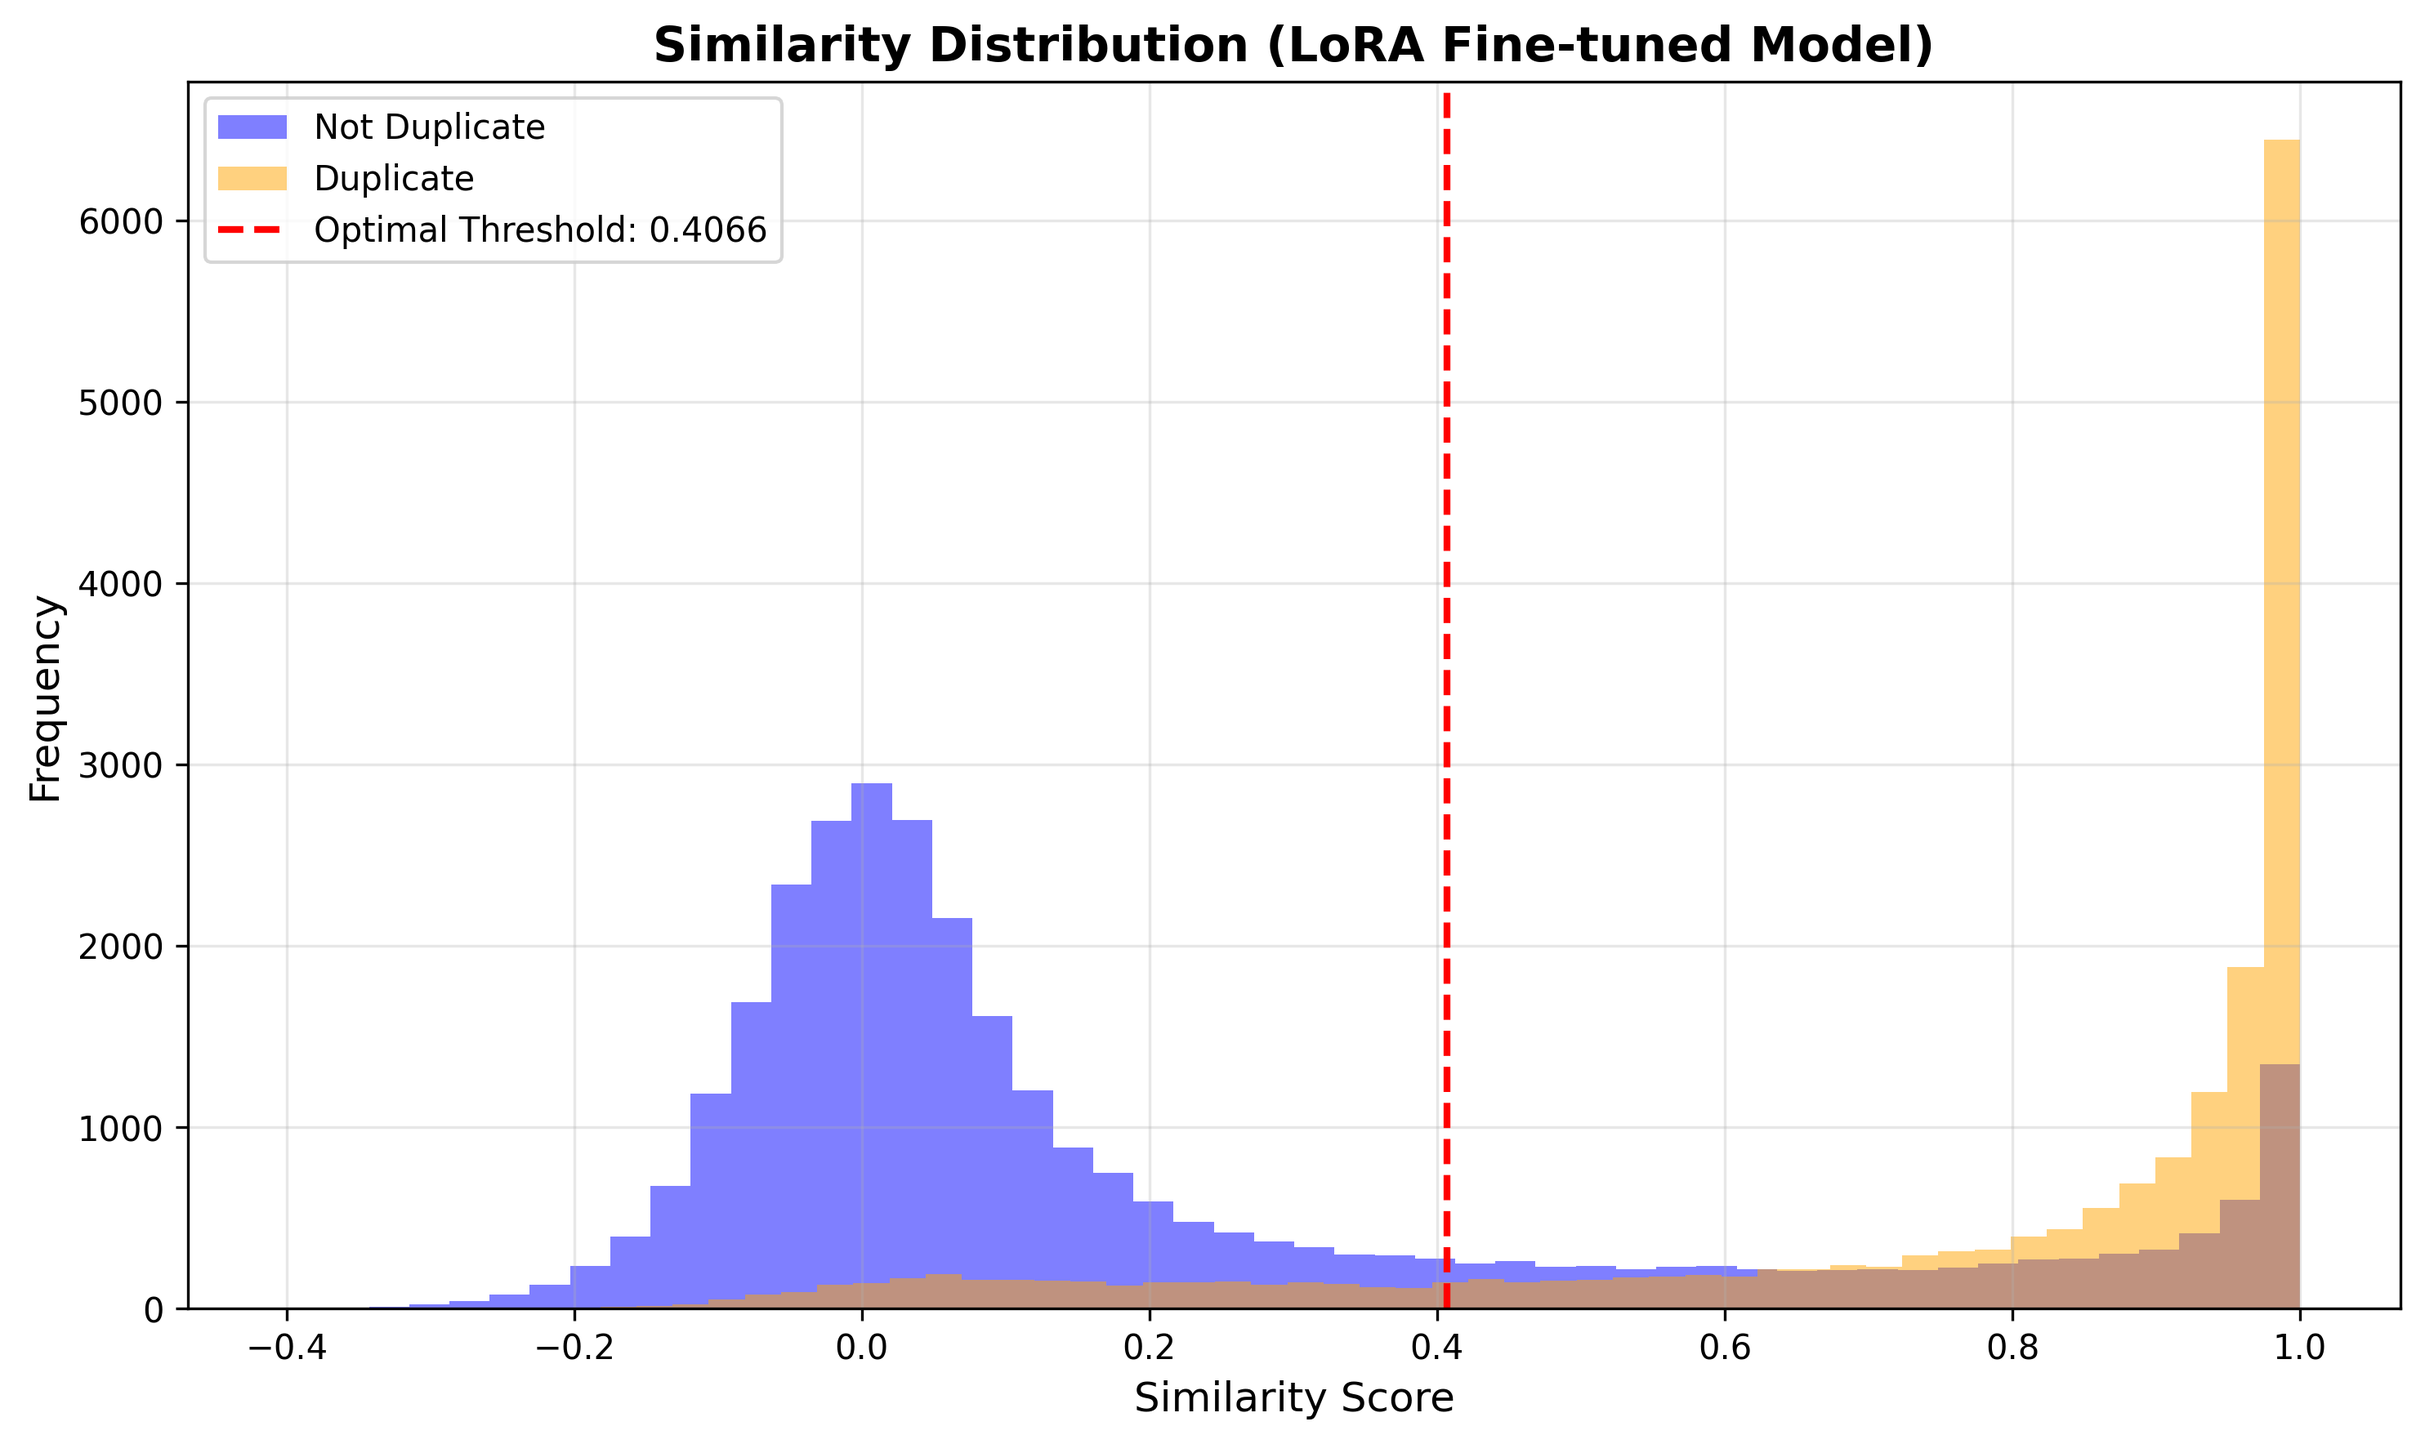
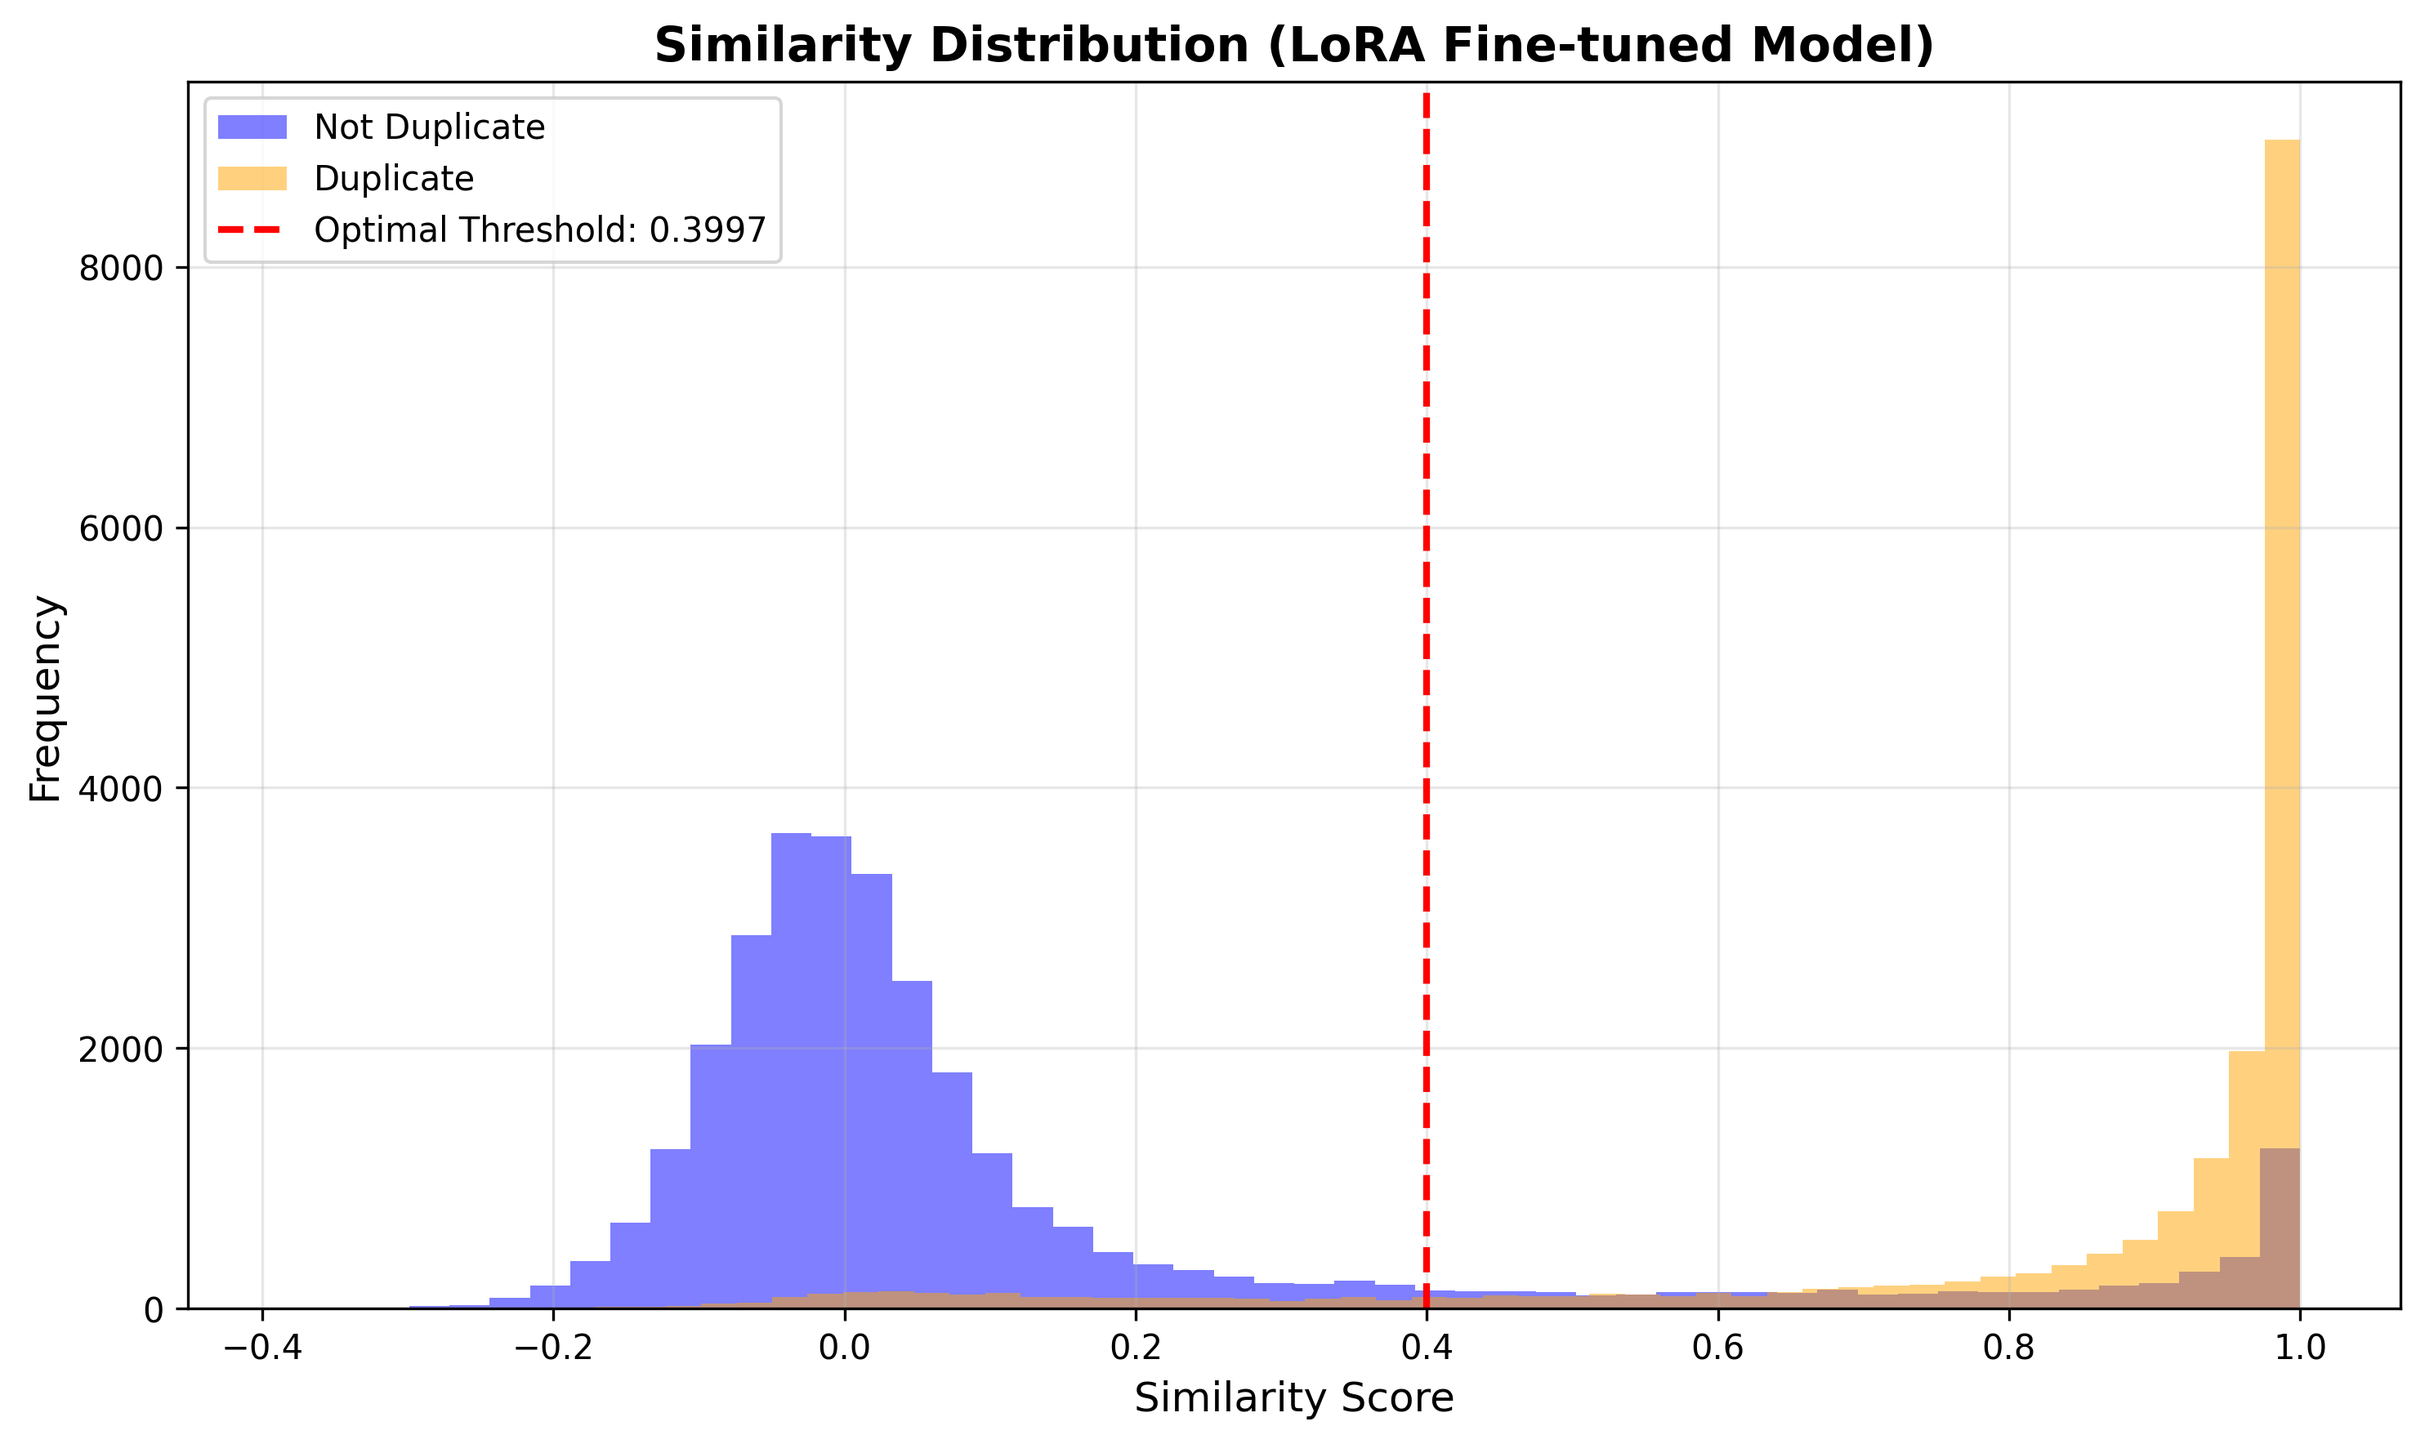
refactor: Switch early stopping from F1 to validation loss
- Change early stopping metric from F1 score to validation loss for more stable model selection
- Update model references from final_model to best_model throughout codebase
- Add embedding similarity comparison demo showing ChromaDB vs direct computation
- Update training config to use medium dataset with 10 epochs
- Update evaluation to use test dataset instead of validation
- Add pydantic-settings dependency
- Regenerate evaluation visualizations with latest training results

diff --git a/vector_database/example_lora_usage.py b/vector_database/example_lora_usage.py
@@ -316,6 +316,118 @@ def example_batch_queries():
                 print(f"  Would need to query LLM for this question")
 
 
+def example_embedding_similarity_comparison():
+    """Example: Compare ChromaDB distance vs direct embedding similarity computation."""
+    print("\n" + "="*70)
+    print("EXAMPLE 3: Embedding Similarity Comparison - Direct Similarity Computation")
+    print("="*70 + "\n")
+
+    # Get path to LoRA model
+    current_dir = os.path.dirname(os.path.abspath(__file__))
+    project_root = os.path.dirname(current_dir)
+    lora_model_path = os.path.join(project_root, 'lora_training_pipeline', 'models', 'best_model')
+
+    # Initialize components
+    embedder = LoRAEmbeddingEngine(model_path=lora_model_path)
+    vector_store = ChromaVectorStore(
+        collection_name="lora_similarity_demo",
+        persist_directory="./data/chroma_db_lora",
+        embedding_dimension=embedder.get_embedding_dimension()
+    )
+
+    # Sample FAQ queries and responses
+    faq_queries = [
+        "How do I change my email address?",
+        "How can I reset my account password?",
+        "How do I delete my account?",
+        "What are the payment methods accepted?",
+        "How do I contact customer support?",
+    ]
+
+    faq_responses = [
+        "To change your email, go to Settings > Profile > Email and enter your new email.",
+        "To reset your password, go to Settings > Security > Reset Password.",
+        "To delete your account, go to Settings > Account > Delete Account.",
+        "We accept credit cards, debit cards, PayPal, and bank transfers.",
+        "You can contact support at support@example.com or call 1-800-SUPPORT.",
+    ]
+
+    # Build cache
+    print(f"Building semantic cache with {len(faq_queries)} FAQ entries...")
+    embeddings = embedder.encode_batch(faq_queries)
+    vector_store.add_embeddings_batch(
+        embeddings=embeddings,
+        texts=faq_queries,
+        llm_responses=faq_responses
+    )
+    print(f"Cache built with {len(faq_queries)} entries\n")
+
+    # Test queries
+    test_queries = [
+        "email change process",
+        "password reset steps",
+        "how to cancel my subscription",  # Not in cache
+    ]
+
+    optimal_similarity = embedder.get_optimal_threshold()
+    optimal_distance = embedder.get_optimal_distance_threshold()
+
+    print(f"Optimal similarity threshold (from training): {optimal_similarity:.4f}")
+    print(f"Optimal distance threshold (for ChromaDB):    {optimal_distance:.4f}")
+    print("\nComparing ChromaDB distance vs direct embedding similarity:")
+    print("-" * 70)
+
+    for query in test_queries:
+        print(f"\nUser query: '{query}'")
+
+        # Get query embedding
+        query_embedding = embedder.encode(query)
+
+        # Get closest match from ChromaDB
+        results = vector_store.query(query_embedding=query_embedding, n_results=1)
+
+        if results['ids']:
+            matched_text = results['documents'][0]
+            chromadb_distance = results['distances'][0]
+
+            # Compute similarity using embedding model directly
+            # Get the embedding of the matched document from cache
+            matched_embedding = embedder.encode(matched_text)
+
+            # Compute cosine similarity (dot product of normalized embeddings)
+            computed_similarity = np.dot(query_embedding, matched_embedding)
+
+            # Convert to distance for comparison
+            computed_distance = 1.0 - computed_similarity
+
+            # Classify using computed similarity
+            is_hit_computed = computed_similarity >= optimal_similarity
+            is_hit_chromadb = chromadb_distance < optimal_distance
+
+            print(f"\n  Matched document: '{matched_text}'")
+            print(f"\n  ChromaDB Results:")
+            print(f"    Distance: {chromadb_distance:.4f}")
+            print(f"    Classification: {'✓ CACHE HIT' if is_hit_chromadb else '✗ CACHE MISS'}")
+
+            print(f"\n  Direct Embedding Similarity:")
+            print(f"    Cosine similarity: {computed_similarity:.4f}")
+            print(f"    Equivalent distance: {computed_distance:.4f}")
+            print(f"    Classification: {'✓ CACHE HIT' if is_hit_computed else '✗ CACHE MISS'}")
+            print(f"    Above threshold? {computed_similarity:.4f} >= {optimal_similarity:.4f}: {is_hit_computed}")
+
+            # Show response if it's a cache hit
+            if is_hit_computed:
+                print(f"\n  Cached response: {results['metadatas'][0].get('llm_response', 'N/A')}")
+            else:
+                print(f"\n  → Would need to query LLM for this question")
+
+            # Verify consistency
+            if is_hit_computed != is_hit_chromadb:
+                print(f"\n  ⚠ WARNING: Classification mismatch between methods!")
+            else:
+                print(f"\n  ✓ Both methods agree on classification")
+
+
 def main():
     """Run all examples."""
     print("\n" + "="*70)
@@ -337,6 +449,7 @@ def main():
     try:
         example_single_query()
         example_batch_queries()
+        example_embedding_similarity_comparison()
 
         print("\n" + "="*70)
         print("All examples completed successfully!")

diff --git a/lora_training_pipeline/train_minilm_lora.py b/lora_training_pipeline/train_minilm_lora.py
@@ -209,7 +209,7 @@ class MiniLMLoRATrainer:
         }
 
         # Early stopping state
-        self.best_val_f1 = 0.0
+        self.best_val_loss = float('inf')
         self.epochs_without_improvement = 0
         self.best_model_state = None
 
@@ -521,13 +521,13 @@ class MiniLMLoRATrainer:
                 # Compute validation loss
                 val_loss = self.compute_validation_loss(val_dataloader)
 
-                # Quick validation metrics
+                # Quick validation metrics (for monitoring only, not used for early stopping)
                 val_metrics = self.quick_evaluate(val_dataloader, threshold=0.5)
                 val_f1 = val_metrics['f1']
 
                 print(f"\nValidation Results:")
-                print(f"  Loss:          {val_loss:.4f}")
-                print(f"  F1 Score:      {val_f1:.4f}")
+                print(f"  Loss:          {val_loss:.4f} (used for early stopping)")
+                print(f"  F1 Score:      {val_f1:.4f} (monitoring only, fixed threshold=0.5)")
                 print(f"  Accuracy:      {val_metrics['accuracy']:.4f}")
                 print(f"  Precision:     {val_metrics['precision']:.4f}")
                 print(f"  Recall:        {val_metrics['recall']:.4f}")
@@ -536,11 +536,11 @@ class MiniLMLoRATrainer:
                 self.history['val_loss'].append(val_loss)
                 self.history['val_metrics'].append(val_metrics)
 
-                # Check for improvement
-                improvement = val_f1 - self.best_val_f1
+                # Check for improvement (lower loss is better)
+                improvement = self.best_val_loss - val_loss
                 if improvement > self.min_delta:
-                    print(f"\n  ✓ Validation F1 improved by {improvement:.4f} (new best: {val_f1:.4f})")
-                    self.best_val_f1 = val_f1
+                    print(f"\n  ✓ Validation loss improved by {improvement:.4f} (new best: {val_loss:.4f})")
+                    self.best_val_loss = val_loss
                     self.epochs_without_improvement = 0
 
                     # Save best model state
@@ -556,13 +556,13 @@ class MiniLMLoRATrainer:
                 else:
                     self.epochs_without_improvement += 1
                     print(f"\n  × No improvement for {self.epochs_without_improvement} epoch(s)")
-                    print(f"    Best F1: {self.best_val_f1:.4f} | Current F1: {val_f1:.4f}")
+                    print(f"    Best Loss: {self.best_val_loss:.4f} | Current Loss: {val_loss:.4f}")
 
                 # Early stopping check
                 if self.epochs_without_improvement >= self.patience:
                     print(f"\n{'='*60}")
                     print(f"Early stopping triggered after {epoch + 1} epochs")
-                    print(f"Best validation F1: {self.best_val_f1:.4f} at epoch {self.best_model_state['epoch']}")
+                    print(f"Best validation loss: {self.best_val_loss:.4f} at epoch {self.best_model_state['epoch']}")
                     print(f"{'='*60}")
 
                     # Restore best model
@@ -623,9 +623,10 @@ class MiniLMLoRATrainer:
         print("Model Training and Evaluation Complete!")
         print("="*60)
         if self.best_model_state:
-            print(f"Best Model (early stopping):")
+            print(f"Best Model (early stopping based on validation loss):")
             print(f"  Epoch: {self.best_model_state['epoch']}")
-            print(f"  Validation F1: {self.best_model_state['val_f1']:.4f}")
+            print(f"  Validation Loss: {self.best_model_state['val_loss']:.4f}")
+            print(f"  Validation F1: {self.best_model_state['val_f1']:.4f} (at fixed threshold)")
             print(f"  Path: {os.path.join(self.output_dir, 'best_model')}")
             print()
         print(f"Final Model:")
@@ -676,8 +677,8 @@ def main():
     # Setup paths
     current_dir = os.path.dirname(os.path.abspath(__file__))
     project_root = os.path.dirname(current_dir)
-    train_csv = os.path.join(project_root, 'data', 'small', 'questions_train.csv')
-    val_csv = os.path.join(project_root, 'data', 'small', 'questions_val.csv')
+    train_csv = os.path.join(project_root, 'data', 'medium', 'questions_train.csv')
+    val_csv = os.path.join(project_root, 'data', 'medium', 'questions_val.csv')
 
     # Check if training data exists
     if not os.path.exists(train_csv):
@@ -698,7 +699,7 @@ def main():
         lora_dropout=0.1,
         learning_rate=2e-4,
         batch_size=64,       # Increased from 32 to 64 for better GPU utilization
-        num_epochs=5,
+        num_epochs=10,
         gradient_accumulation_steps=1,
         output_dir='models',
         patience=3,          # Early stopping: wait 3 epochs for improvement

diff --git a/vector_database/example_usage.py b/vector_database/example_usage.py
@@ -25,7 +25,7 @@ class LoRAEmbeddingEngine:
         Initialize the LoRA embedding engine.
 
         Args:
-            model_path: Path to the LoRA model directory (e.g., 'lora_training_pipeline/models/final_model')
+            model_path: Path to the LoRA model directory (e.g., 'lora_training_pipeline/models/best_model')
             device: Device to use ('cuda', 'mps', 'cpu', or None for auto-detect)
         """
         # Import dependencies
@@ -438,7 +438,7 @@ def example_lora_single_embedding():
     # Get path to LoRA model
     current_dir = os.path.dirname(os.path.abspath(__file__))
     project_root = os.path.dirname(current_dir)
-    lora_model_path = os.path.join(project_root, 'lora_training_pipeline', 'models', 'final_model')
+    lora_model_path = os.path.join(project_root, 'lora_training_pipeline', 'models', 'best_model')
 
     # Check if model exists
     if not os.path.exists(lora_model_path):
@@ -511,7 +511,7 @@ def example_lora_batch_embeddings():
     # Get path to LoRA model
     current_dir = os.path.dirname(os.path.abspath(__file__))
     project_root = os.path.dirname(current_dir)
-    lora_model_path = os.path.join(project_root, 'lora_training_pipeline', 'models', 'final_model')
+    lora_model_path = os.path.join(project_root, 'lora_training_pipeline', 'models', 'best_model')
 
     # Check if model exists
     if not os.path.exists(lora_model_path):
@@ -599,7 +599,7 @@ def example_lora_comparison():
     # Get path to LoRA model
     current_dir = os.path.dirname(os.path.abspath(__file__))
     project_root = os.path.dirname(current_dir)
-    lora_model_path = os.path.join(project_root, 'lora_training_pipeline', 'models', 'final_model')
+    lora_model_path = os.path.join(project_root, 'lora_training_pipeline', 'models', 'best_model')
 
     # Check if model exists
     if not os.path.exists(lora_model_path):

diff --git a/lora_training_pipeline/evaluate_lora_model.py b/lora_training_pipeline/evaluate_lora_model.py
@@ -389,10 +389,10 @@ def main():
     current_dir = os.path.dirname(os.path.abspath(__file__))
     project_root = os.path.dirname(current_dir)
     train_csv = os.path.join(project_root, 'data', 'medium', 'questions_train.csv')
-    val_csv = os.path.join(project_root, 'data', 'medium', 'questions_val.csv')
+    val_csv = os.path.join(project_root, 'data', 'medium', 'questions_test.csv')
 
     # Path to the trained model
-    model_path = os.path.join(current_dir, 'models', 'final_model')
+    model_path = os.path.join(current_dir, 'models', 'best_model')
 
     if not os.path.exists(model_path):
         print(f"\nError: Model not found at {model_path}")
